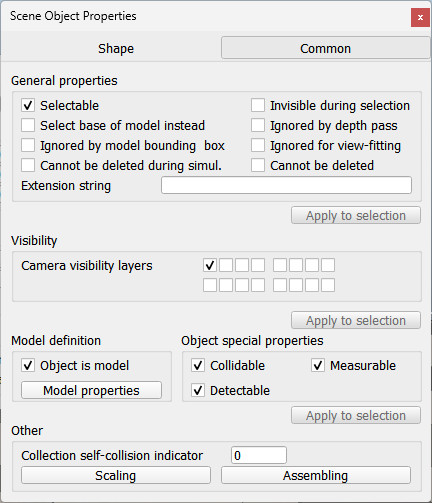
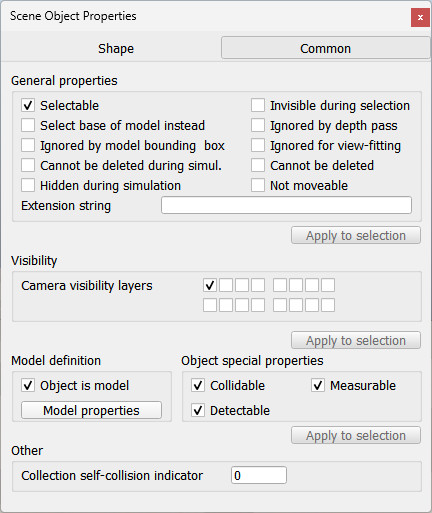
update for rev8

diff --git a/en/simROS2.htm b/en/simROS2.htm
@@ -611,7 +611,7 @@ td.section { margin: 0; padding: 0; }
 </tr>
 <tr class="apiTableTr">
 <td class="apiTableLeftLSyn">Lua synopsis</td>
-<td class="apiTableRightLSyn">string actionClientHandle=simROS2.createActionClient(string actionName, string actionType, string goalResponseCallback, string feedbackCallback, string resultCallback)<br>
+<td class="apiTableRightLSyn">string actionClientHandle=simROS2.createActionClient(string actionName, string actionType, func goalResponseCallback, func feedbackCallback, func resultCallback)<br>
 </td>
 </tr>
 <tr class="apiTableTr">
@@ -622,11 +622,11 @@ td.section { margin: 0; padding: 0; }
 <div>
 <strong>actionType</strong> (string): action type, e.g.: 'example_interfaces/action/Fibonacci'</div>
 <div>
-<strong>goalResponseCallback</strong> (string): the goal response callback, will be called with arguments (goal_id,accepted) where accepted is a boolean value</div>
+<strong>goalResponseCallback</strong> (func): the goal response callback, will be called with arguments (goal_id,accepted) where accepted is a boolean value</div>
 <div>
-<strong>feedbackCallback</strong> (string): the feedback callback, will be called with arguments (goal_id,feedback) where feedback is a table representing the Feedback message of the action type</div>
+<strong>feedbackCallback</strong> (func): the feedback callback, will be called with arguments (goal_id,feedback) where feedback is a table representing the Feedback message of the action type</div>
 <div>
-<strong>resultCallback</strong> (string): the result callback, will be called with arguments (goal_id,code,result) where code is a value from <a href="#enum:action_result_code">simROS2.action_result_code</a>, and result is a table representing the Result message of the action type</div>
+<strong>resultCallback</strong> (func): the result callback, will be called with arguments (goal_id,code,result) where code is a value from <a href="#enum:action_result_code">simROS2.action_result_code</a>, and result is a table representing the Result message of the action type</div>
 </td>
 </tr>
 <tr class="apiTableTr">
@@ -636,7 +636,7 @@ td.section { margin: 0; padding: 0; }
 </tr>
 <tr class="apiTableTr">
 <td class="apiTableLeftPSyn">Python synopsis</td>
-<td class="apiTableRightPSyn">string actionClientHandle=simROS2.createActionClient(string actionName, string actionType, string goalResponseCallback, string feedbackCallback, string resultCallback)<br>
+<td class="apiTableRightPSyn">string actionClientHandle=simROS2.createActionClient(string actionName, string actionType, func goalResponseCallback, func feedbackCallback, func resultCallback)<br>
 </td>
 </tr>
 <tr class="apiTableTr">
@@ -658,7 +658,7 @@ td.section { margin: 0; padding: 0; }
 </tr>
 <tr class="apiTableTr">
 <td class="apiTableLeftLSyn">Lua synopsis</td>
-<td class="apiTableRightLSyn">string actionServerHandle=simROS2.createActionServer(string actionName, string actionType, string handleGoalCallback, string handleCancelCallback, string handleAcceptedCallback)<br>
+<td class="apiTableRightLSyn">string actionServerHandle=simROS2.createActionServer(string actionName, string actionType, func handleGoalCallback, func handleCancelCallback, func handleAcceptedCallback)<br>
 </td>
 </tr>
 <tr class="apiTableTr">
@@ -669,13 +669,13 @@ td.section { margin: 0; padding: 0; }
 <div>
 <strong>actionType</strong> (string): action type, e.g.: 'example_interfaces/action/Fibonacci'</div>
 <div>
-<strong>handleGoalCallback</strong> (string): name of callback function, which will be called with arguments (goal_id, goal) where goal is a table representing the Goal message of the action type. the callback must return a valid <a href="#enum:goal_response">simROS2.goal_response</a>
+<strong>handleGoalCallback</strong> (func): callback function, which will be called with arguments (goal_id, goal) where goal is a table representing the Goal message of the action type. the callback must return a valid <a href="#enum:goal_response">simROS2.goal_response</a>
 </div>
 <div>
-<strong>handleCancelCallback</strong> (string): name of callback function, which will be called with arguments (goal_id, goal) where goal is a table representing the Goal message of the action type. the callback must return a valid <a href="#enum:cancel_response">simROS2.cancel_response</a>
+<strong>handleCancelCallback</strong> (func): callback function, which will be called with arguments (goal_id, goal) where goal is a table representing the Goal message of the action type. the callback must return a valid <a href="#enum:cancel_response">simROS2.cancel_response</a>
 </div>
 <div>
-<strong>handleAcceptedCallback</strong> (string): name of callback function, which will be called with arguments (goal_id, goal) where goal is a table representing the Goal message of the action type. it will be called after the goal is accepted, and is responsible of executing the goal, but must return immediately.</div>
+<strong>handleAcceptedCallback</strong> (func): callback function, which will be called with arguments (goal_id, goal) where goal is a table representing the Goal message of the action type. it will be called after the goal is accepted, and is responsible of executing the goal, but must return immediately.</div>
 </td>
 </tr>
 <tr class="apiTableTr">
@@ -685,7 +685,7 @@ td.section { margin: 0; padding: 0; }
 </tr>
 <tr class="apiTableTr">
 <td class="apiTableLeftPSyn">Python synopsis</td>
-<td class="apiTableRightPSyn">string actionServerHandle=simROS2.createActionServer(string actionName, string actionType, string handleGoalCallback, string handleCancelCallback, string handleAcceptedCallback)<br>
+<td class="apiTableRightPSyn">string actionServerHandle=simROS2.createActionServer(string actionName, string actionType, func handleGoalCallback, func handleCancelCallback, func handleAcceptedCallback)<br>
 </td>
 </tr>
 <tr class="apiTableTr">
@@ -830,7 +830,7 @@ td.section { margin: 0; padding: 0; }
 </tr>
 <tr class="apiTableTr">
 <td class="apiTableLeftLSyn">Lua synopsis</td>
-<td class="apiTableRightLSyn">string serviceHandle=simROS2.createService(string serviceName, string serviceType, string serviceCallback)<br>
+<td class="apiTableRightLSyn">string serviceHandle=simROS2.createService(string serviceName, string serviceType, func serviceCallback)<br>
 </td>
 </tr>
 <tr class="apiTableTr">
@@ -841,7 +841,7 @@ td.section { margin: 0; padding: 0; }
 <div>
 <strong>serviceType</strong> (string): service type, e.g.: 'std_srvs/srv/Trigger'</div>
 <div>
-<strong>serviceCallback</strong> (string): name of the callback function, which will be called with a single argument of type table containing the service request payload; it must return another table containing the response</div>
+<strong>serviceCallback</strong> (func): callback function, which will be called with a single argument of type table containing the service request payload; it must return another table containing the response</div>
 </td>
 </tr>
 <tr class="apiTableTr">
@@ -851,7 +851,7 @@ td.section { margin: 0; padding: 0; }
 </tr>
 <tr class="apiTableTr">
 <td class="apiTableLeftPSyn">Python synopsis</td>
-<td class="apiTableRightPSyn">string serviceHandle=simROS2.createService(string serviceName, string serviceType, string serviceCallback)<br>
+<td class="apiTableRightPSyn">string serviceHandle=simROS2.createService(string serviceName, string serviceType, func serviceCallback)<br>
 </td>
 </tr>
 <tr class="apiTableTr">
@@ -873,7 +873,7 @@ td.section { margin: 0; padding: 0; }
 </tr>
 <tr class="apiTableTr">
 <td class="apiTableLeftLSyn">Lua synopsis</td>
-<td class="apiTableRightLSyn">string subscriptionHandle=simROS2.createSubscription(string topicName, string topicType, string topicCallback, int queueSize=1)<br>
+<td class="apiTableRightLSyn">string subscriptionHandle=simROS2.createSubscription(string topicName, string topicType, func topicCallback, int queueSize=1)<br>
 </td>
 </tr>
 <tr class="apiTableTr">
@@ -884,7 +884,7 @@ td.section { margin: 0; padding: 0; }
 <div>
 <strong>topicType</strong> (string): topic type, e.g.: 'geometry_msgs/msg/Twist'</div>
 <div>
-<strong>topicCallback</strong> (string): name of the callback function, which will be called with a single argument of type table containing the message payload, e.g.: {linear={x=1.5, y=0.0, z=0.0}, angular={x=0.0, y=0.0, z=-2.3}}</div>
+<strong>topicCallback</strong> (func): callback function, which will be called with a single argument of type table containing the message payload, e.g.: {linear={x=1.5, y=0.0, z=0.0}, angular={x=0.0, y=0.0, z=-2.3}}</div>
 <div>
 <strong>queueSize</strong> (int, default: 1): (optional) queue size</div>
 </td>
@@ -896,7 +896,7 @@ td.section { margin: 0; padding: 0; }
 </tr>
 <tr class="apiTableTr">
 <td class="apiTableLeftPSyn">Python synopsis</td>
-<td class="apiTableRightPSyn">string subscriptionHandle=simROS2.createSubscription(string topicName, string topicType, string topicCallback, int queueSize=1)<br>
+<td class="apiTableRightPSyn">string subscriptionHandle=simROS2.createSubscription(string topicName, string topicType, func topicCallback, int queueSize=1)<br>
 </td>
 </tr>
 <tr class="apiTableTr">
@@ -1329,7 +1329,7 @@ td.section { margin: 0; padding: 0; }
 </tr>
 <tr class="apiTableTr">
 <td class="apiTableLeftLSyn">Lua synopsis</td>
-<td class="apiTableRightLSyn">string subscriptionHandle=simROS2.imageTransportCreateSubscription(string topicName, string topicCallback, int queueSize=1)<br>
+<td class="apiTableRightLSyn">string subscriptionHandle=simROS2.imageTransportCreateSubscription(string topicName, func topicCallback, int queueSize=1)<br>
 </td>
 </tr>
 <tr class="apiTableTr">
@@ -1338,7 +1338,7 @@ td.section { margin: 0; padding: 0; }
 <div>
 <strong>topicName</strong> (string): topic name, e.g.: '/cmd_vel'</div>
 <div>
-<strong>topicCallback</strong> (string): name of the callback function, which will be called as: topicCallback(buffer data, int width, int height)</div>
+<strong>topicCallback</strong> (func): callback function, which will be called as: topicCallback(buffer data, int width, int height)</div>
 <div>
 <strong>queueSize</strong> (int, default: 1): (optional) queue size</div>
 </td>
@@ -1350,7 +1350,7 @@ td.section { margin: 0; padding: 0; }
 </tr>
 <tr class="apiTableTr">
 <td class="apiTableLeftPSyn">Python synopsis</td>
-<td class="apiTableRightPSyn">string subscriptionHandle=simROS2.imageTransportCreateSubscription(string topicName, string topicCallback, int queueSize=1)<br>
+<td class="apiTableRightPSyn">string subscriptionHandle=simROS2.imageTransportCreateSubscription(string topicName, func topicCallback, int queueSize=1)<br>
 </td>
 </tr>
 <tr class="apiTableTr">

diff --git a/en/acknowledgments.htm b/en/acknowledgments.htm
@@ -146,7 +146,7 @@ Eric Rohmer who is a thorough CoppeliaSim tester and an &quot;idea machine&quot;
 <li>Marcin Konarski, Salvatore Sanfilippo, Pieter Noordhuis for the <a href="https://github.com/AmokHuginnsson/replxx/" target="_blank">Replxx</a> library, used in the headless version of the <a href="commandLine.htm#commander">commander plugin</a>. <a href="#replxx">See the license</a>.</li>
 <li>Benjamin Navarro, for his code in the legacy remote API, which enables shared memory communication instead of socket communication.</li>
 
-<li>Following people for noticing bugs, reporting problems, suggesting solutions or new ideas, providing patches, code improvements, or simply helping out: Guillermo Presti, Matthias Fueller, Paul Fudal, Matthieu Lapeyre, Alberto Fanjul, Laurens Philippo, Vadim Liventsev, Kirill Makukhin, Patrick Bouffard, Pouya Mohammadi, Luca Marchionni, Barrett Ames, Arnaud Leleve, Geerten Doornenbal, Nikolaus Wittenstein, Ayberk Ozgur, Qi Wang, Giordano, Karl Robillard, Brian Yeomans, Kiyoshi Irie, Ulrich Schwesinger, Peter Mačička, Inkyu Sa, David Butterworth, Marco Cognetti, Xinyu Zhang, Jaqueline Gallardo, Serkan ÇİÇEK, Taehoon Koo, He Tao, Yusuke Ishizawa, Billy Newman, Rüdiger Dehmel, Roberto Marino, Renaud Detry, Roband, Hendrik Wiese, Matthias Schindler, George Moustris, Marco Bellaccini, Klaus Raizer, Paulo Gurgel, Stéphane Magnenat, Philipp Krüsi, Pascal Gohl, Gianpaolo Gonnelli, Felix Herrmann, Edgar Virga, Josep Tormo Costa, Gaël Ecorchard, Massimo Cefalo, Robert Lang, Marc Durvaux, Alexander Rietzler, Matt Derry, Arne Hitzmann, Sergi Foix, Daniel Morberg, Andreas Kuhner, Gerold Huber, Danilo Vasconcellos Vargas, Spencer Krause, Daniel Kuhner, Filip Jares, Luigi Ferri, Michaela Richter, Daniel Lechner, Sven Knüppel, Steve Nguyen, Jonas Sperling, Roberto Guzman, James Besancon, Andrew Vardy, Bipeen Acharya, Fred Gisa, Simon D. Levy, Leopoldo Armesto, Rodrigo Moreno Garcia, Hanna Kurniawati, Dimitri Klimenko, Joshua Mun Song,  Vinay Yadav, Thomas Estier, Matthias Imle, Rosé Rosado, Soner Ulun, Reza Mahjourian, Ben Allan, Riccardo Spica,  Giovanni Claudio, Guenter Schreiber, Antoine Rennuit, Francois Conti, Sébastien Granges, Patrick Helmer, Eva Alves Costa, Lucian Cucu, Sigurd Villumsen, Andrea Censi, Pierre Rouanet, Leander Hille, Christoph Hügle, William Harrison, Scott Drew Pendleton, Jan Dentler, Raimund Krenmüller, Anuraj Rajendraprakash, Ilya Nemihin, Ángel Luis Jiménez García, Leander Hille, Pierre Rouanet, Kenichi Hara, Ilya Nemihin, Federico Ferri, Michael Michalik, Martin Pecka, Nicola Piccinelli, Kshitij Tiwari, Victor Gomez, Parker Owan, Yuki Suga, Muhammad Umer Huzaifa, Marshall Floyd, Augusto Gandia, Pierre Jacquot, Gurvan Le Bleis, Andreu Vidal, Nicola Di Pol, Tobias Groll, Wu Xiaojun, Karol Mocniak, Ana Lucia, Ricardo Azambuja, Anto Ronson, Graeme Neff Wilson, Minson Lee, Tiago Malheiro, Andrew Hundt, Ahmed Yacine, Matthias Ploner, Indranil Sur, Sung Kyun Kim, Rik Timmers, Matthew Veres, Korolyov Alexei, Daniel Angelov, Mohammed Talha, Bartolomeo Della Corte, Scott Hissam, Mark Fink, Hao Wang, Matias Nitsche, Ndivhuwo Makondo, Yu Zhang, DeKita G. Moon, Paul Santiago Tumbaco Casa, Tobias Benz, Rodrigo Moreno Garcia, Arjun Narayanan, Sven Schweigler, Nicola Battilani, Mark Edmonds,  Benno Timmermann, Cándido Otero Moreira, Justin Yim, Allen Zhu, Leo Koppel, Ravi Prakash Joshi, Sina Radmard, Sai Vemprala, Waleed El-Badry, James Barger, Gonzalo Casas, Metehan Doyran, Arif Rahman, Jason Cachrane, Steffen Hemer, Fangyi Zhang, Filipe Rocha, virgile Daugé, Riccardo Spica, Florian Golemo, Kevin M. Lynch, Frank C. Park, Jacob Huesman, Matthew Veres, Cándido Otero, Leon Masopust, Michael Tong, Zhengxing Yang, Thomas Gurriet, Lenka Pitonakova, Hervé Frezza-Buet, Justus Rijke, Stefan Müller, Julien Lechalupe, Tristan Gahler, Robert Peck, William Jones, Benjamin Erdemann, Boris Bogaerts, Ulrich Viereck, Amdrei Florea, Catalin Buiu, Joachim Haensel, Julian Mayer, Jacob Smith, Mohsen Moradi Dalvand, Simon Birrell, Mathias Thor, Jedrzej Orbik, Liu Dong, Mark Hartenstein, Alexander Oliva, Claudio Gaz, Simon Birrell, Sahil Sharma, Adrian Schoisengeier, Rémi Lux, Kilian Freitag, Maël Hörz, Jakub Turaj, Rieky Barady, Jian Ye, Jaime Boal, Pável Axel Mc Campos Peña, Patrick Gruener, Thomas Wilmotte, Lorenzo Romanini, Johan Relefors, Pablo Bustos, Sonny Tarbouriech, Aleksander Sil, Arturs Paugurs, Wei Wei, David Page, Leopoldo Armesto, Ayush Patel, Cameron Kabacinski, Francisco Marin, Kevin Thomas, Nikita Aigner, Charles Han, Shai Levy, Bobovsky Zdenko, Salvatore Sessa, Jakob Ambsdorf, Hayato Amaike, Nathan Kocherhans, Alex Wuqi Zhang, René Simon, Yongdong Wang, Andrés Faíña, Davide Scorza, Jovan Sumarac, Alexander Oliva, Luigi Ascione, Rui Li, Patrick Grüner, Andrés Faíña, Michal Mareš, Kat Styles Wood, David Paulius, Pranav A. Bhounsule, Davide Scorza, Amirhossein Afkhami Ardekani, Roman Horshkov, Volker Kühn, Artem Shishkin, Andrey Voronkov, Vitalii Kudinov, Yong Jiang, github user mfrigerio17, Elia Cereda, Keith Siilats, Pardeep Singh Panesar, Zichun Xu, Belal Elsayed, Clélie Demey, Fumio Ozaki... We know we forgot many many people, also significant ones... please let us know!</li>
+<li>Following people for noticing bugs, reporting problems, suggesting solutions or new ideas, providing patches, code improvements, or simply helping out: Guillermo Presti, Matthias Fueller, Paul Fudal, Matthieu Lapeyre, Alberto Fanjul, Laurens Philippo, Vadim Liventsev, Kirill Makukhin, Patrick Bouffard, Pouya Mohammadi, Luca Marchionni, Barrett Ames, Arnaud Leleve, Geerten Doornenbal, Nikolaus Wittenstein, Ayberk Ozgur, Qi Wang, Giordano, Karl Robillard, Brian Yeomans, Kiyoshi Irie, Ulrich Schwesinger, Peter Mačička, Inkyu Sa, David Butterworth, Marco Cognetti, Xinyu Zhang, Jaqueline Gallardo, Serkan ÇİÇEK, Taehoon Koo, He Tao, Yusuke Ishizawa, Billy Newman, Rüdiger Dehmel, Roberto Marino, Renaud Detry, Roband, Hendrik Wiese, Matthias Schindler, George Moustris, Marco Bellaccini, Klaus Raizer, Paulo Gurgel, Stéphane Magnenat, Philipp Krüsi, Pascal Gohl, Gianpaolo Gonnelli, Felix Herrmann, Edgar Virga, Josep Tormo Costa, Gaël Ecorchard, Massimo Cefalo, Robert Lang, Marc Durvaux, Alexander Rietzler, Matt Derry, Arne Hitzmann, Sergi Foix, Daniel Morberg, Andreas Kuhner, Gerold Huber, Danilo Vasconcellos Vargas, Spencer Krause, Daniel Kuhner, Filip Jares, Luigi Ferri, Michaela Richter, Daniel Lechner, Sven Knüppel, Steve Nguyen, Jonas Sperling, Roberto Guzman, James Besancon, Andrew Vardy, Bipeen Acharya, Fred Gisa, Simon D. Levy, Leopoldo Armesto, Rodrigo Moreno Garcia, Hanna Kurniawati, Dimitri Klimenko, Joshua Mun Song,  Vinay Yadav, Thomas Estier, Matthias Imle, Rosé Rosado, Soner Ulun, Reza Mahjourian, Ben Allan, Riccardo Spica,  Giovanni Claudio, Guenter Schreiber, Antoine Rennuit, Francois Conti, Sébastien Granges, Patrick Helmer, Eva Alves Costa, Lucian Cucu, Sigurd Villumsen, Andrea Censi, Pierre Rouanet, Leander Hille, Christoph Hügle, William Harrison, Scott Drew Pendleton, Jan Dentler, Raimund Krenmüller, Anuraj Rajendraprakash, Ilya Nemihin, Ángel Luis Jiménez García, Leander Hille, Pierre Rouanet, Kenichi Hara, Ilya Nemihin, Federico Ferri, Michael Michalik, Martin Pecka, Nicola Piccinelli, Kshitij Tiwari, Victor Gomez, Parker Owan, Yuki Suga, Muhammad Umer Huzaifa, Marshall Floyd, Augusto Gandia, Pierre Jacquot, Gurvan Le Bleis, Andreu Vidal, Nicola Di Pol, Tobias Groll, Wu Xiaojun, Karol Mocniak, Ana Lucia, Ricardo Azambuja, Anto Ronson, Graeme Neff Wilson, Minson Lee, Tiago Malheiro, Andrew Hundt, Ahmed Yacine, Matthias Ploner, Indranil Sur, Sung Kyun Kim, Rik Timmers, Matthew Veres, Korolyov Alexei, Daniel Angelov, Mohammed Talha, Bartolomeo Della Corte, Scott Hissam, Mark Fink, Hao Wang, Matias Nitsche, Ndivhuwo Makondo, Yu Zhang, DeKita G. Moon, Paul Santiago Tumbaco Casa, Tobias Benz, Rodrigo Moreno Garcia, Arjun Narayanan, Sven Schweigler, Nicola Battilani, Mark Edmonds,  Benno Timmermann, Cándido Otero Moreira, Justin Yim, Allen Zhu, Leo Koppel, Ravi Prakash Joshi, Sina Radmard, Sai Vemprala, Waleed El-Badry, James Barger, Gonzalo Casas, Metehan Doyran, Arif Rahman, Jason Cachrane, Steffen Hemer, Fangyi Zhang, Filipe Rocha, virgile Daugé, Riccardo Spica, Florian Golemo, Kevin M. Lynch, Frank C. Park, Jacob Huesman, Matthew Veres, Cándido Otero, Leon Masopust, Michael Tong, Zhengxing Yang, Thomas Gurriet, Lenka Pitonakova, Hervé Frezza-Buet, Justus Rijke, Stefan Müller, Julien Lechalupe, Tristan Gahler, Robert Peck, William Jones, Benjamin Erdemann, Boris Bogaerts, Ulrich Viereck, Amdrei Florea, Catalin Buiu, Joachim Haensel, Julian Mayer, Jacob Smith, Mohsen Moradi Dalvand, Simon Birrell, Mathias Thor, Jedrzej Orbik, Liu Dong, Mark Hartenstein, Alexander Oliva, Claudio Gaz, Simon Birrell, Sahil Sharma, Adrian Schoisengeier, Rémi Lux, Kilian Freitag, Maël Hörz, Jakub Turaj, Rieky Barady, Jian Ye, Jaime Boal, Pável Axel Mc Campos Peña, Patrick Gruener, Thomas Wilmotte, Lorenzo Romanini, Johan Relefors, Pablo Bustos, Sonny Tarbouriech, Aleksander Sil, Arturs Paugurs, Wei Wei, David Page, Leopoldo Armesto, Ayush Patel, Cameron Kabacinski, Francisco Marin, Kevin Thomas, Nikita Aigner, Charles Han, Shai Levy, Bobovsky Zdenko, Salvatore Sessa, Jakob Ambsdorf, Hayato Amaike, Nathan Kocherhans, Alex Wuqi Zhang, René Simon, Yongdong Wang, Andrés Faíña, Davide Scorza, Jovan Sumarac, Alexander Oliva, Luigi Ascione, Rui Li, Patrick Grüner, Andrés Faíña, Michal Mareš, Kat Styles Wood, David Paulius, Pranav A. Bhounsule, Davide Scorza, Amirhossein Afkhami Ardekani, Roman Horshkov, Volker Kühn, Artem Shishkin, Andrey Voronkov, Vitalii Kudinov, Yong Jiang, github user mfrigerio17, Elia Cereda, Keith Siilats, Pardeep Singh Panesar, Zichun Xu, Belal Elsayed, Clélie Demey, Fumio Ozaki, Christopher Blum... We know we forgot many many people, also significant ones... please let us know!</li>
 
 <p>
 I also wish to thank following people for the inspiration they provided in various fields through their publications, books or other means:

diff --git a/en/simROS.htm b/en/simROS.htm
@@ -115,7 +115,7 @@ td.section { margin: 0; padding: 0; }
 </tr>
 <tr class="apiTableTr">
 <td class="apiTableLeftLSyn">Lua synopsis</td>
-<td class="apiTableRightLSyn">string serviceServerHandle=simROS.advertiseService(string serviceName, string serviceType, string serviceCallback)<br>
+<td class="apiTableRightLSyn">string serviceServerHandle=simROS.advertiseService(string serviceName, string serviceType, func serviceCallback)<br>
 </td>
 </tr>
 <tr class="apiTableTr">
@@ -126,7 +126,7 @@ td.section { margin: 0; padding: 0; }
 <div>
 <strong>serviceType</strong> (string): topic type, e.g.: 'geometry_msgs::Twist'</div>
 <div>
-<strong>serviceCallback</strong> (string): name of the callback function, which will be called with a single argument of type table containing the service request payload; it must return another table containing the response</div>
+<strong>serviceCallback</strong> (func): callback function, which will be called with a single argument of type table containing the service request payload; it must return another table containing the response</div>
 </td>
 </tr>
 <tr class="apiTableTr">
@@ -136,7 +136,7 @@ td.section { margin: 0; padding: 0; }
 </tr>
 <tr class="apiTableTr">
 <td class="apiTableLeftPSyn">Python synopsis</td>
-<td class="apiTableRightPSyn">string serviceServerHandle=simROS.advertiseService(string serviceName, string serviceType, string serviceCallback)<br>
+<td class="apiTableRightPSyn">string serviceServerHandle=simROS.advertiseService(string serviceName, string serviceType, func serviceCallback)<br>
 </td>
 </tr>
 <tr class="apiTableTr">
@@ -647,7 +647,7 @@ td.section { margin: 0; padding: 0; }
 </tr>
 <tr class="apiTableTr">
 <td class="apiTableLeftLSyn">Lua synopsis</td>
-<td class="apiTableRightLSyn">string subscriberHandle=simROS.imageTransportSubscribe(string topicName, string topicCallback, int queueSize=1)<br>
+<td class="apiTableRightLSyn">string subscriberHandle=simROS.imageTransportSubscribe(string topicName, func topicCallback, int queueSize=1)<br>
 </td>
 </tr>
 <tr class="apiTableTr">
@@ -656,7 +656,7 @@ td.section { margin: 0; padding: 0; }
 <div>
 <strong>topicName</strong> (string): topic name, e.g.: '/cmd_vel'</div>
 <div>
-<strong>topicCallback</strong> (string): name of the callback function, which will be called as: topicCallback(buffer data, int width, int height)</div>
+<strong>topicCallback</strong> (func): callback function, which will be called as: topicCallback(buffer data, int width, int height)</div>
 <div>
 <strong>queueSize</strong> (int, default: 1): (optional) queue size</div>
 </td>
@@ -668,7 +668,7 @@ td.section { margin: 0; padding: 0; }
 </tr>
 <tr class="apiTableTr">
 <td class="apiTableLeftPSyn">Python synopsis</td>
-<td class="apiTableRightPSyn">string subscriberHandle=simROS.imageTransportSubscribe(string topicName, string topicCallback, int queueSize=1)<br>
+<td class="apiTableRightPSyn">string subscriberHandle=simROS.imageTransportSubscribe(string topicName, func topicCallback, int queueSize=1)<br>
 </td>
 </tr>
 <tr class="apiTableTr">
@@ -1296,7 +1296,7 @@ td.section { margin: 0; padding: 0; }
 </tr>
 <tr class="apiTableTr">
 <td class="apiTableLeftLSyn">Lua synopsis</td>
-<td class="apiTableRightLSyn">string subscriberHandle=simROS.subscribe(string topicName, string topicType, string topicCallback, int queueSize=1, transport_hints transportHints={})<br>
+<td class="apiTableRightLSyn">string subscriberHandle=simROS.subscribe(string topicName, string topicType, func topicCallback, int queueSize=1, transport_hints transportHints={})<br>
 </td>
 </tr>
 <tr class="apiTableTr">
@@ -1307,7 +1307,7 @@ td.section { margin: 0; padding: 0; }
 <div>
 <strong>topicType</strong> (string): topic type, e.g.: 'geometry_msgs::Twist'</div>
 <div>
-<strong>topicCallback</strong> (string): name of the callback function, which will be called with a single argument of type table containing the message payload, e.g.: {linear={x=1.5, y=0.0, z=0.0}, angular={x=0.0, y=0.0, z=-2.3}}</div>
+<strong>topicCallback</strong> (func): callback function, which will be called with a single argument of type table containing the message payload, e.g.: {linear={x=1.5, y=0.0, z=0.0}, angular={x=0.0, y=0.0, z=-2.3}}</div>
 <div>
 <strong>queueSize</strong> (int, default: 1): (optional) queue size</div>
 <div>
@@ -1321,7 +1321,7 @@ td.section { margin: 0; padding: 0; }
 </tr>
 <tr class="apiTableTr">
 <td class="apiTableLeftPSyn">Python synopsis</td>
-<td class="apiTableRightPSyn">string subscriberHandle=simROS.subscribe(string topicName, string topicType, string topicCallback, int queueSize=1, transport_hints transportHints={})<br>
+<td class="apiTableRightPSyn">string subscriberHandle=simROS.subscribe(string topicName, string topicType, func topicCallback, int queueSize=1, transport_hints transportHints={})<br>
 </td>
 </tr>
 <tr class="apiTableTr">

diff --git a/en/commonPropertiesDialog.htm b/en/commonPropertiesDialog.htm
@@ -53,6 +53,10 @@
 
 <li><strong>Cannot be deleted</strong>: when enabled, then the object will ignore a deletion operation (deletion will however still work when triggered via code).</li>
 
+<li><strong>Hidden during simulation</strong>: when enabled, then the object is hidden during simulation.</li>
+
+<li><strong>Not moveable</strong>: when enabled, then the object cannot be moved with the mouse.</li>
+
 <li><a name="extensionString"></a> <strong>Extension string</strong>: a string that describes additional object properties, mainly used by extension plugins (see also the <a href="regularApi/simGetExtensionString.htm">sim.getExtensionString</a> API function).</li>
 
 <li><strong>Camera visibility layers</strong>: each object in CoppeliaSim can be assigned to one or several visibility layers. If there is at least one visibility layer that matches the <a href="layerSelectionDialog.htm">layer selection dialog</a> layers, then the object will be visible when seen from a camera. By default, a <a href="shapes.htm">shape</a> is assigned to the first layer, a <a href="joints.htm">joint</a> to the second layer, a <a href="dummies.htm">dummy</a> to the third layer, etc.
@@ -74,34 +78,6 @@
 
 <p align=center><img src="images/collectionSelfCollisionIndicator.jpg"></p>
 <p class=imageLabel>[Collection self-collision indicators]</p>
-<br>
-
-
-<li><strong>Scaling</strong>: objects or models can be scaled in a flexible way in CoppeliaSim. The size of an object or model, and all related properties are scaled appropriately (e.g. joint ranges, velocity settings, masses, etc.) so that the scaled object or model can normally continue to operate (but at a different scale). <br>
-</li>
-
-
-<li><a name="assembling"></a><strong>Assembling</strong>: opens a dialog that allows to specify how the <a href="userInterface.htm#toolbars">assembling toolbar button</a> will handle the object during assembly (if objects are assembled in a different way than via the assembling toolbar button, then following settings will have no influence):</li>
-
-<p align=center><img src="images/assembling.jpg"></p>
-<p class=imageLabel>[Assembling behaviour dialog]</p>
-<br>
-
-
-
-
-
-
-
-<li class=tabTab><strong>Required match values for parent</strong>: the object can be attached to another object (i.e. become another object's child), but only if one of the listed <em>required match values for parent</em> matches one of its new parent's <em>required match values for child</em> values. This feature is useful in order to set a fixture compatibility criteria (e.g. gripper A can only be attached with a robot that has a tooltip of type A).</li>
-
-<li class=tabTab><strong>Required match values for child</strong>: the object can have another object attached to itself  (i.e. become another object's parent), but only if one of its <em>required match values for child</em> matches  one of its new child's <em>required match values for parent </em>values. This feature is useful in order to set a fixture compatibility criteria (e.g. gripper A can only be attached with a robot that has a tooltip of type A).</li>
-
-<li class=tabTab><strong>When assembling, a specific local transform. matrix will be applied</strong>: if checked, then the object won't stay in place when assembled: a specific transformation matrix will be used as its new local transformation matrix. By default that matrix is the identity matrix, but you can specify a specific matrix by clicking <strong>Set matrix</strong>.  This feature is useful in order to automatically position and orient an object correctly in relation to its new parent (e.g. in order to have a gripper automatically placed correctly at a robot's tooltip)</li>
-
-<p>The object selection order is important for assembly operations, i.e. first select the <em>to-become-child-object</em>, then the <em>to-become-parent-object</em>. If the selection order is wrong, or if the <em>to-become-parent-object</em> is not appropriate, then CoppeliaSim will try to guess what the real intention of the user was (e.g. by searching for an appropriate match in the <em>to-become-parent-object</em>'s descendents), if there is no ambiguity.</p>
-
-
 
 
 <br>

diff --git a/en/objectParameterIDs.htm b/en/objectParameterIDs.htm
@@ -83,6 +83,8 @@
 <div>sim.visionintparam_render_mode </div><div class=tab>int32 parameter : Render mode. Use with care. 0=normal, 1=aux. channels, 2=object handles, 3=POV-Ray.</div>
 <div>sim.visionintparam_perspective_operation </div><div class=tab>int32 parameter : whether the vision sensor is operated in perspective mode (1) or orthogonal mode (0).</div>
 <div>sim.visionfarrayparam_viewfrustum </div><div class=tab>float array parameter : 2 3D vectors, for the near and far view frustum corners.</div>
+<div>sim.visionintparam_rgbignored</div><div class=tab>int parameter : whether RGB info is ignored</div>
+<div>sim.visionintparam_depthignored</div><div class=tab>int parameter : whether depth info is ignored</div>
 <br>
 <div>More parameters you wish to adjust from the API? Ask us to add them for a future release!</div>
 </div>
@@ -244,8 +246,9 @@
 
 <h2><a name="dummies" id="dummies"></a>Dummies</h2>
 <div class="constList">
-<div>sim.dummyintparam_link_type </div><div class=tab>int32 parameter : <a href="apiConstants.htm#dummyLinkTypes">dummy link type</a>. If you set this value for a dummy that is dynamically enabled or that will be come dynamically enabled, you might have to call <a href="regularApi/simResetDynamicObject.htm">sim.resetDynamicObject</a> on the two dummies for the effect to become active.</div>
+<div>sim.dummyintparam_dummytype </div><div class=tab>int32 parameter : <a href="apiConstants.htm#dummyTypes">dummy type</a>.</div>
 <div>sim.dummyfloatparam_size </div><div class=tab>float parameter : the size of the dummy.</div>
+<div>sim.dummystringparam_assemblytag </div><div class=tab>string parameter : the assembly tag.</div>
 <br>
 <div>More parameters you wish to adjust from the API? Ask us to add them for a future release!</div>
 </div>

diff --git a/en/apiConstants.htm b/en/apiConstants.htm
@@ -97,6 +97,7 @@ See also the <a href="regularApi/simGetObjectType.htm">sim.getObjectType</a> and
 ><div class="sim.objectproperty_cannotdelete">sim.objectproperty_cannotdelete</div
 >
 <div class="sim.objectproperty_cannotdeleteduringsim">sim.objectproperty_cannotdeleteduringsim</div>
+<div class="sim.objectproperty_hiddenforsimulation">sim.objectproperty_hiddenforsimulation</div>
 <br>
 See also the <a href="regularApi/simGetObjectProperty.htm">sim.getObjectProperty</a> and <a href="regularApi/simSetObjectProperty.htm">sim.setObjectProperty</a> functions.
 </div>
@@ -1053,10 +1054,12 @@ See also the <a href="regularApi/simGetShapeGeomInfo.htm">sim.getShapeGeomInfo</
 </div>
 
 
-<div class="constantsGroup"><h2><a name="dummyLinkTypes"></a>Dummy link types</h2>
+<div class="constantsGroup"><h2><a name="dummyTypes"></a><a name="dummyLinkTypes"></a>Dummy types</h2>
 <div class="constList">
-<div class="sim.dummylink_dynloopclosure">sim.dummylink_dynloopclosure</div>
-<div class="sim.dummylink_dyntendon">sim.dummylink_dyntendon</div>
+<div class="sim.dummytype_default">sim.dummytype_default</div>
+<div class="sim.dummytype_assembly">sim.dummytype_assembly</div>
+<div class="sim.dummytype_dynloopclosure">sim.dummytype_dynloopclosure</div>
+<div class="sim.dummytype_dyntendon">sim.dummytype_dyntendon</div>
 </div>
 </div>
 

diff --git a/en/versionInfo.htm b/en/versionInfo.htm
@@ -46,8 +46,11 @@ Version history:
 <a name="coppeliaSim4.7.0" id="coppeliaSim4.7.0"></a>CoppeliaSim V4.7.0 (not yet released)
 </h2>
  
-<li>Fixed several bugs. Thanks to Clélie Demey and Fumio Ozaki for noticing them or helping to resolve them</li>
+<li>Fixed several bugs. Thanks to Clélie Demey, Fumio Ozaki and Christopher Blum for noticing them or helping to resolve them</li>
 <li>Added sim.scriptintparam_autorestartonerror, allowing to e.g. trigger an add-on restart on error via <a href="regularApi/simSetScriptInt32Param.htm">sim.setScriptInt32Param</a></li>
+<li>User models located in <userSettingsDir>/userContent/models/<category>/ and <userSettingsDir>/overlay/<repoName>/models/<category>/ are automatically overlayed to the model browser</td>
+<li>Better and unifier code editor coloring</td>
+<li>Better method to assemble items via assembly-type dummies</td> 
 <li>Added an object tracking example scene using numpy and OpenCV: <em>scenes/vision/objectTracking.ttt</em></li>
 <li>Added 2 AWS Robomaker scenes</td>
 <li>New add-on: Distribute objects uniformly</li>

diff --git a/en/ros2Tutorial.htm b/en/ros2Tutorial.htm
@@ -104,7 +104,7 @@ def sysCall_actuation():
 def sysCall_cleanup():
     # Following not really needed in a simulation script (i.e. automatically shut down at simulation end):
     simROS2.shutdownPublisher(self.publisher)
-    simROS2.shutdownSubscriber(self.subscriber)</code>
+    simROS2.shutdownSubscription(self.subscriber)</code>
     
 <code class="hljs language-lua coppelia-coppeliasim-script">--lua
 
